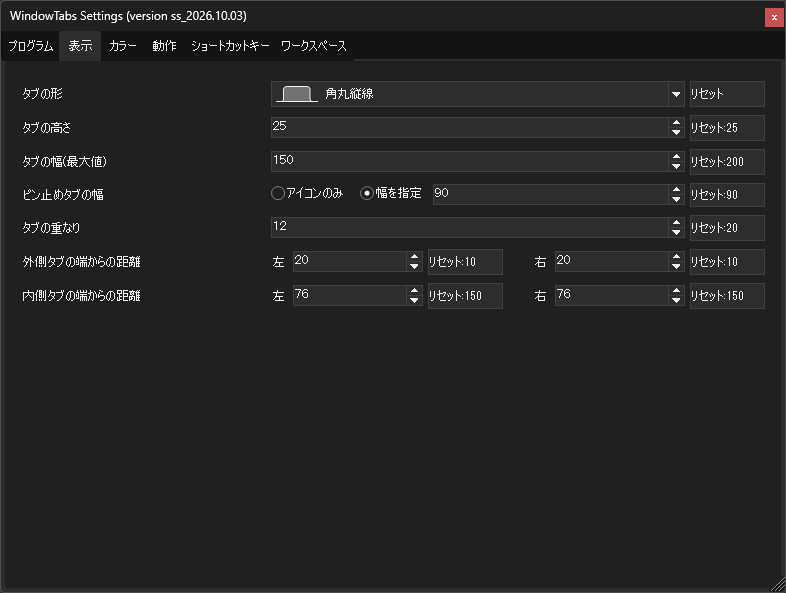
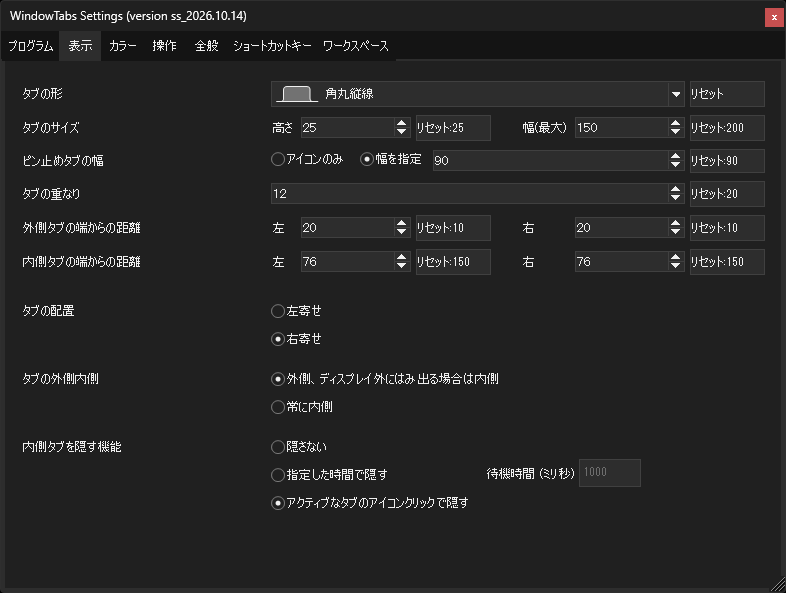
Retake the settings pictures of the README for the regrouped pages

diff --git a/README_Japanese.md b/README_Japanese.md
@@ -408,13 +408,15 @@ leafOfTree 氏も様々な改良を加えたフォークを作成しています
 - **左右スナップ時のタブ配置**: 寄せが揃ったグループを左右スナップ (x% 含む) すると、タブをスナップ側に寄せます。「変更しない」も選択可能。
 - スナップ時にタブの高さ分の余白を残すか、タブを引き離した位置でスナップするかを選べます。
 
-![Settings Behavior](README_Image/SettingsBehavior_Japanese.png)
+![Settings Interaction](README_Image/SettingsInteraction_Japanese.png)
 
 ### 全般タブ
 
 - 起動時に実行するか、全てのプログラムで既定でタブを有効にするかを設定できます。
 - **非アクティブなグループのタブを半透明にする**: 操作していないタブグループのタブを、透明度 50% で表示します。マウスを重ねている間は元の濃さに戻ります。別の仮想デスクトップにあるウィンドウのタブも透明度 50% なので、両方が重なるタブは、さらに薄く (透明度 75%) 表示されます。
 - 全画面ウィンドウのタブ、ウィンドウ移動中のタブを隠すかを選べます。
+
+![Settings General](README_Image/SettingsGeneral_Japanese.png)
 
 ### ショートカットキータブ
 

diff --git a/README.md b/README.md
@@ -408,13 +408,15 @@ If you create a nice color theme, please share it at [GitHub Issues](https://git
 - **Tab placement on left/right snap**: snapping a uniformly aligned group left or right (including x% snaps) realigns its tabs to that side. "Don't change" is also available.
 - Choose whether snapping leaves a tab-height margin and whether detached tabs snap at the drop position.
 
-![Settings Behavior](README_Image/SettingsBehavior.png)
+![Settings Interaction](README_Image/SettingsInteraction.png)
 
 ### General Tab
 
 - Choose whether to run at startup and enable tabs for all programs by default.
 - **Fade out tabs on inactive windows**: the tabs of a tab group you are not working in are drawn 50% transparent, and return to full strength while the mouse is over them. The tab of a window on another virtual desktop is 50% transparent as well, so a tab where both apply is fainter still (75% transparent).
 - Choose whether to hide tabs for full-screen windows and while a window is moving.
+
+![Settings General](README_Image/SettingsGeneral.png)
 
 ### Shortcut Keys Tab
 
